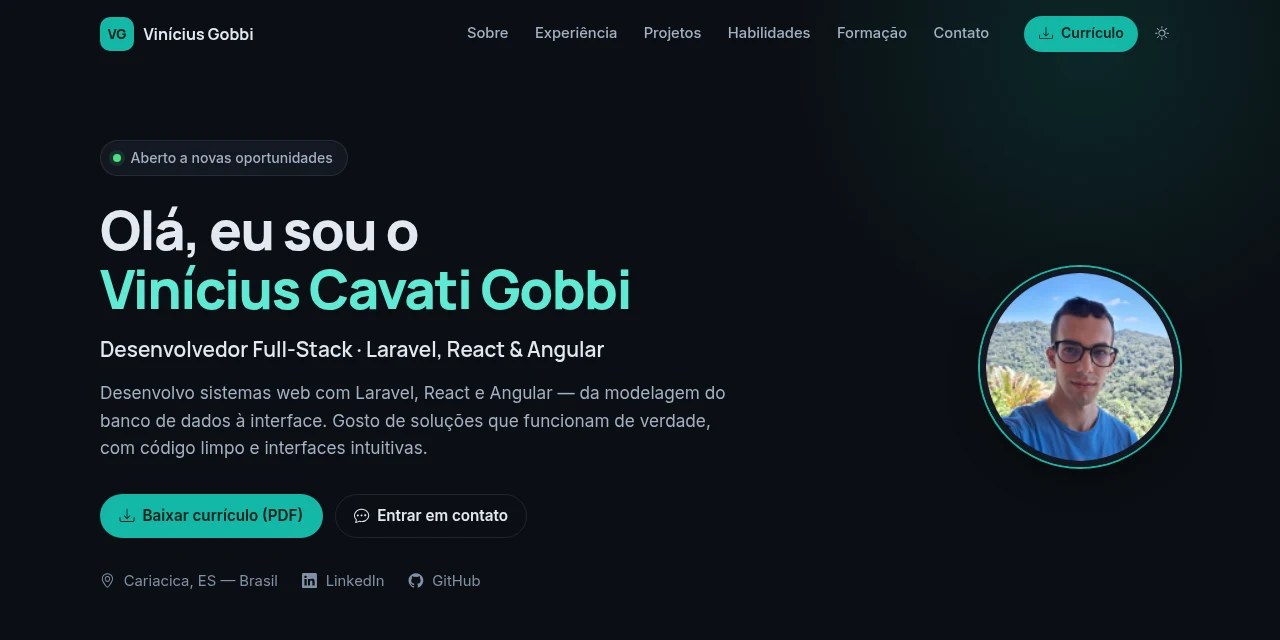
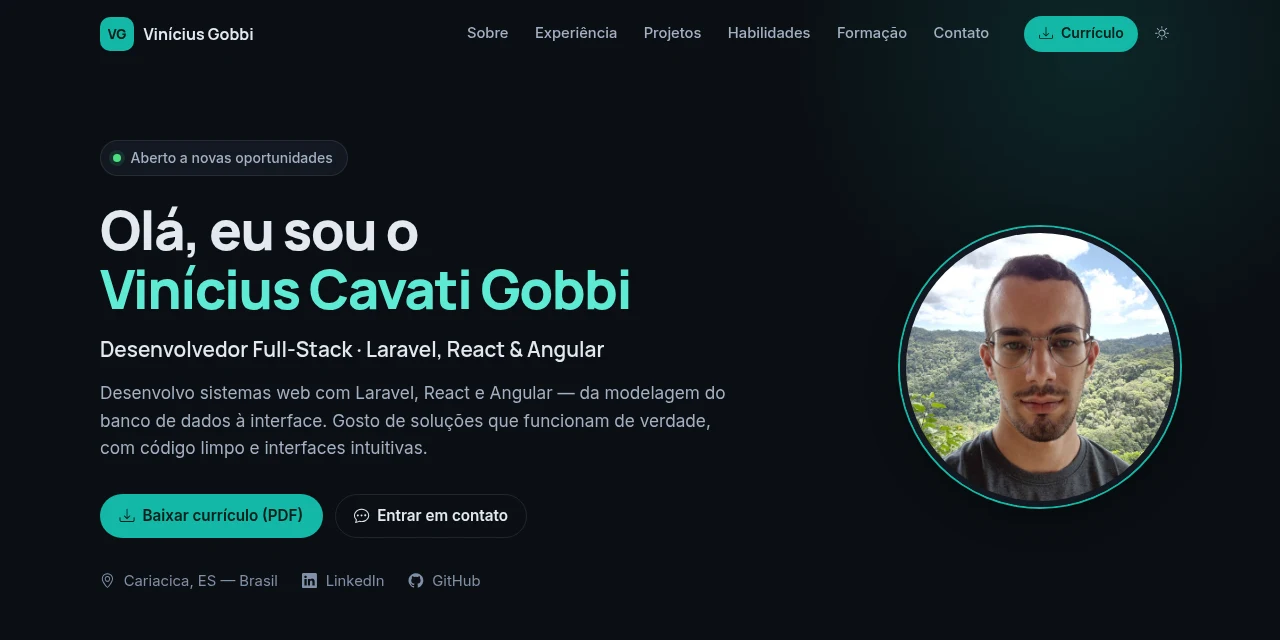
feat: update profile photo
Higher-resolution photo (600x600, EXIF stripped) used in the hero, Open
Graph and structured data. The hero shows it larger again, and the
portfolio project preview is refreshed to match.

Changed region(s): [[0.6875, 0.3438, 0.9375, 0.8125]]

diff --git a/src/index.html b/src/index.html
@@ -40,7 +40,9 @@
   <meta property="og:title" content="Vinícius Gobbi — Desenvolvedor Full-Stack">
   <meta property="og:description"
     content="Desenvolvedor Full-Stack com Laravel, React, Angular e SQL Server. Veja minha experiência, projetos e certificações.">
-  <meta property="og:image" content="https://vinicgobbi.dev.br/assets/profile.png">
+  <meta property="og:image" content="https://vinicgobbi.dev.br/assets/profile.jpg">
+  <meta property="og:image:width" content="600">
+  <meta property="og:image:height" content="600">
   <meta name="twitter:card" content="summary">
 
   <script type="application/ld+json">
@@ -50,7 +52,7 @@
       "name": "Vinícius Cavati Gobbi",
       "jobTitle": "Desenvolvedor Full-Stack",
       "url": "https://vinicgobbi.dev.br",
-      "image": "https://vinicgobbi.dev.br/assets/profile.png",
+      "image": "https://vinicgobbi.dev.br/assets/profile.jpg",
       "address": { "@type": "PostalAddress", "addressLocality": "Cariacica", "addressRegion": "ES", "addressCountry": "BR" },
       "worksFor": { "@type": "Organization", "name": "FAESA" },
       "alumniOf": { "@type": "CollegeOrUniversity", "name": "FAESA" },

diff --git a/src/app/sections/hero/hero.html b/src/app/sections/hero/hero.html
@@ -42,9 +42,9 @@
 
     <div class="hero__photo">
       <img
-        ngSrc="assets/profile.png"
-        width="150"
-        height="150"
+        ngSrc="assets/profile.jpg"
+        width="600"
+        height="600"
         priority
         [alt]="'Foto de ' + profile.nome"
       />

diff --git a/src/app/sections/hero/hero.scss b/src/app/sections/hero/hero.scss
@@ -93,7 +93,7 @@
 }
 
 .hero__photo img {
-  width: clamp(160px, 18vw, 200px);
+  width: clamp(200px, 24vw, 280px);
   height: auto;
   aspect-ratio: 1;
   object-fit: cover;
@@ -118,7 +118,7 @@
     order: -1;
 
     img {
-      width: 140px;
+      width: 160px;
     }
   }
 
